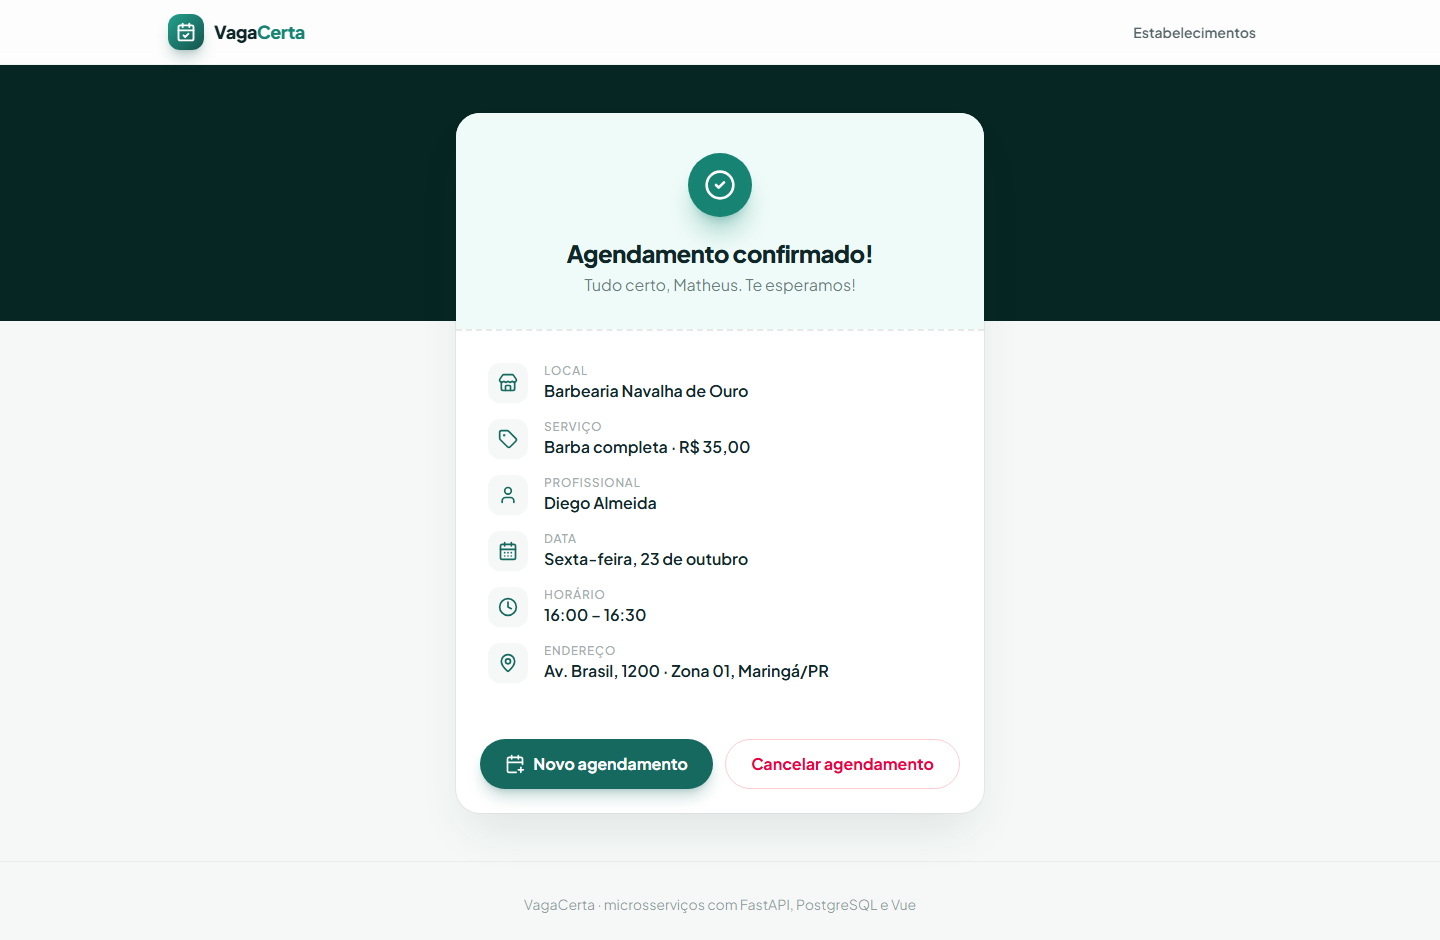
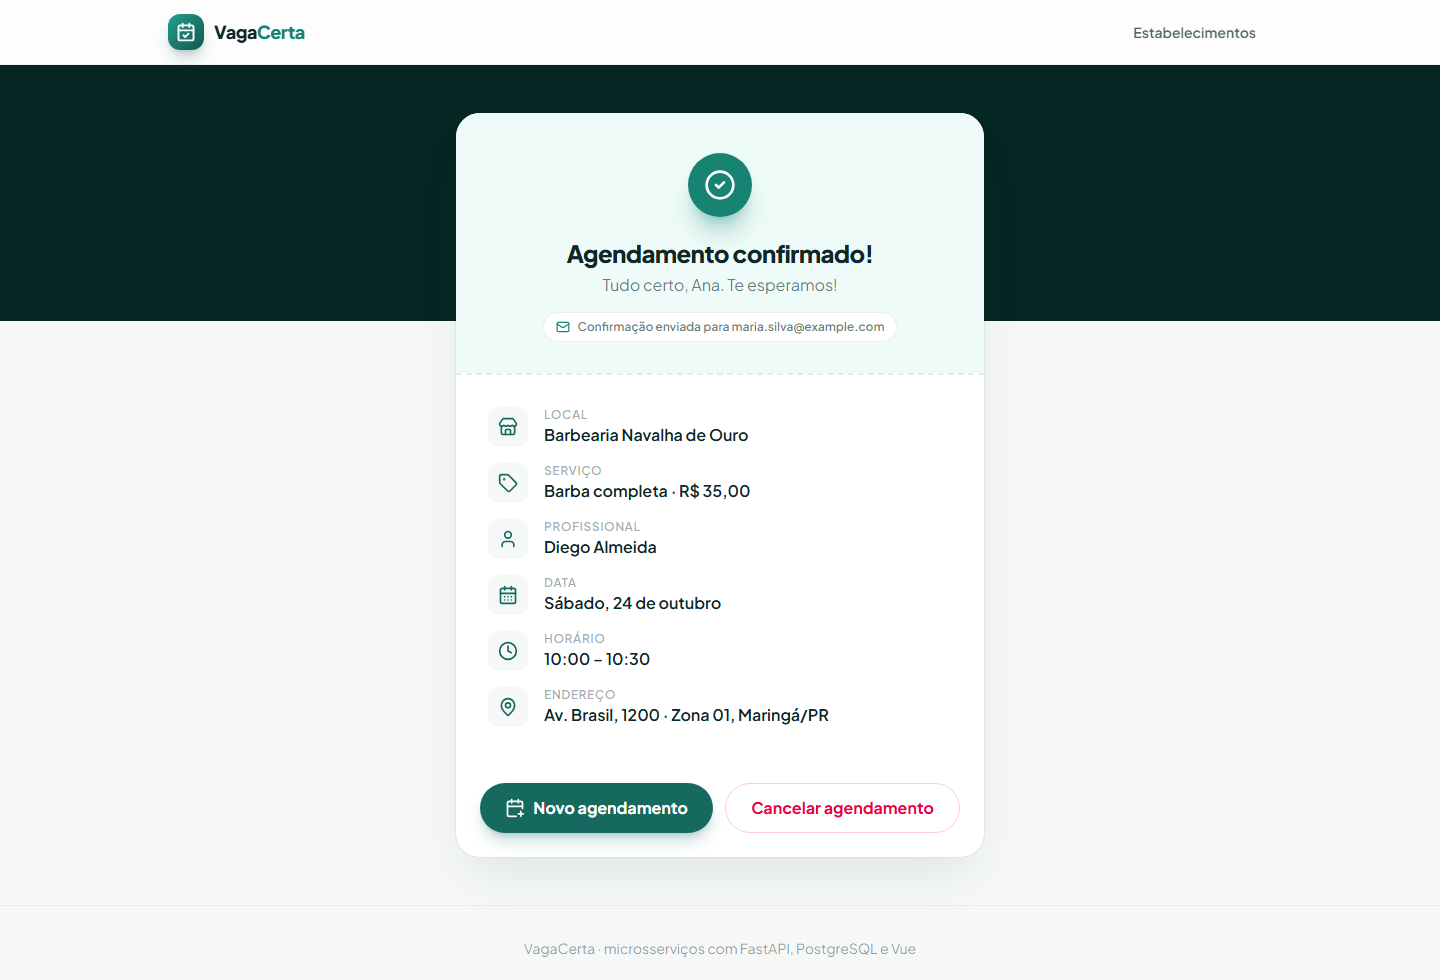
docs: document the event-driven architecture
Update the README with the new components, the booking-to-e-mail flow,
the event contract and the new test suites, and record the outbox and
messaging decisions as ADRs.

diff --git a/README.md b/README.md
@@ -9,6 +9,8 @@
   <a href="https://github.com/dev-matheusfranca/VagaCerta/actions/workflows/ci.yml"><img src="https://github.com/dev-matheusfranca/VagaCerta/actions/workflows/ci.yml/badge.svg" alt="CI" /></a>
   <img src="https://img.shields.io/badge/python-3.13-3776AB?logo=python&logoColor=white" alt="Python 3.13" />
   <img src="https://img.shields.io/badge/FastAPI-009688?logo=fastapi&logoColor=white" alt="FastAPI" />
+  <img src="https://img.shields.io/badge/Apache%20Kafka-4-231F20?logo=apachekafka&logoColor=white" alt="Apache Kafka 4" />
+  <img src="https://img.shields.io/badge/RabbitMQ-4-FF6600?logo=rabbitmq&logoColor=white" alt="RabbitMQ 4" />
   <img src="https://img.shields.io/badge/PostgreSQL-17-4169E1?logo=postgresql&logoColor=white" alt="PostgreSQL 17" />
   <img src="https://img.shields.io/badge/Vue-3-4FC08D?logo=vuedotjs&logoColor=white" alt="Vue 3" />
   <img src="https://img.shields.io/badge/license-MIT-green" alt="MIT license" />
@@ -28,6 +30,7 @@
 - [Project structure](#project-structure)
 - [Getting started](#getting-started)
 - [API reference](#api-reference)
+- [Events](#events)
 - [Testing](#testing)
 - [Roadmap](#roadmap)
 - [Contributing](#contributing)
@@ -41,14 +44,14 @@ apps. That leads to three everyday problems:
 
 1. **Back-and-forth messages** just to find a time that works for both sides.
 2. **Double bookings** when two people are promised the same slot.
-3. **Empty chairs** when someone cancels at the last minute and nobody else finds out.
+3. **No-shows and empty chairs** when people forget their appointment or cancel without anyone finding out.
 
 VagaCerta lets customers pick a service, a professional and a free slot in a few clicks, at any hour. The
 system **guarantees that a slot is never booked twice**, even when many people try to book it at the same
-moment.
+moment, and keeps customers informed by e-mail: confirmation, cancellation and a reminder before the
+appointment.
 
-The project grows in phases toward a full event-driven architecture with Kafka, RabbitMQ, a waitlist saga,
-observability, Kubernetes and AI. See the [roadmap](#roadmap).
+The project grows in phases toward a full event-driven architecture. See the [roadmap](#roadmap).
 
 ## Features
 
@@ -56,9 +59,10 @@ observability, Kubernetes and AI. See the [roadmap](#roadmap).
 - Real-time availability, calculated from each professional's weekly working hours and existing bookings.
 - Booking with no double booking under concurrency, enforced by the database.
 - Cancellation that immediately returns the slot to the agenda.
-- Booking confirmation page that works as a shareable receipt.
-- Responsive web app, from phones to wide screens.
-- Interactive API documentation (OpenAPI/Swagger) for every service.
+- E-mails for confirmation, cancellation and a reminder 24 hours before (or 2 hours, for last-minute
+  bookings), with branded HTML templates.
+- Reliable delivery: failed e-mails are retried with increasing delays and parked in a dead-letter queue.
+- Responsive web app and interactive API documentation (OpenAPI/Swagger) for every service.
 
 ## Screenshots
 
@@ -66,32 +70,79 @@ observability, Kubernetes and AI. See the [roadmap](#roadmap).
 |---|---|
 | <img src="docs/screenshots/business.png" alt="Business page with services, professionals and free slots" /> | <img src="docs/screenshots/booking.png" alt="Booking confirmation page" /> |
 
+<p align="center">
+  <img src="docs/screenshots/email.png" alt="Confirmation e-mail" width="480" /><br />
+  <em>Confirmation e-mail, as captured by Mailpit</em>
+</p>
+
 ## Architecture
 
 ```mermaid
 flowchart LR
-    user((Customer)) --> web
-    web["Web app<br/>Vue 3 + nginx"] -->|/api/catalog| catalog
-    web -->|/api/booking| booking
+    user((Customer)) --> web["Web app<br/>Vue 3 + nginx"]
+    web -->|/api/catalog| catalog["Catalog<br/>FastAPI"]
+    web -->|/api/booking| booking["Booking<br/>FastAPI"]
     booking -->|REST| catalog
-    catalog["Catalog service<br/>FastAPI"] --> catalogdb[(PostgreSQL<br/>catalog)]
-    booking["Booking service<br/>FastAPI"] --> bookingdb[(PostgreSQL<br/>booking)]
+    catalog --> catalogdb[(PostgreSQL<br/>catalog)]
+    booking --> bookingdb[(PostgreSQL<br/>bookings + outbox)]
+    bookingdb -.->|polls| relay["Outbox relay"]
+    relay -->|booking.events| kafka{{Kafka}}
+    kafka --> notification["Notification<br/>consumer + scheduler"]
+    notification --> notificationdb[(PostgreSQL<br/>projection)]
+    notification -->|e-mail jobs| rabbitmq{{RabbitMQ}}
+    rabbitmq --> worker["E-mail worker"]
+    worker -->|SMTP| mail["Mailpit"]
 ```
 
 | Component | Responsibility |
 |---|---|
 | **catalog** | Businesses, professionals, services and weekly working hours |
-| **booking** | Availability calculation, bookings and cancellations |
+| **booking** | Availability calculation, bookings and cancellations; writes domain events to an outbox |
+| **booking-relay** | Publishes outbox events to Kafka |
+| **notification** | Consumes booking events, schedules reminders and sends e-mails through RabbitMQ |
 | **web** | Customer-facing booking flow; nginx also routes `/api/*` to the services |
+
+### How a booking becomes an e-mail
+
+```mermaid
+sequenceDiagram
+    participant C as Customer
+    participant B as Booking
+    participant DB as Booking DB
+    participant R as Outbox relay
+    participant K as Kafka
+    participant N as Notification
+    participant Q as RabbitMQ
+    participant S as SMTP
+    C->>B: POST /bookings
+    B->>DB: INSERT booking + outbox event (one transaction)
+    B-->>C: 201 Created
+    R->>DB: SELECT pending events FOR UPDATE SKIP LOCKED
+    R->>K: booking.created (key = booking id)
+    K->>N: booking.created
+    N->>N: ignore if the event id was already processed
+    N->>Q: enqueue confirmation e-mail
+    Q->>N: e-mail job
+    N->>S: send
+    Note over N,Q: on failure: retry after 5 s, 30 s and 2 min, then dead-letter queue
+```
 
 ### Design decisions
 
-- **Database per service.** Each service owns its schema and migrations; they only talk through APIs.
-- **Anti-corruption layer.** Booking reads Catalog through
-  [`catalog_client.py`](services/booking/src/booking/catalog_client.py), which maps only the fields it needs.
-- **Framework-free domain.** Availability rules live in pure functions
-  ([`domain.py`](services/booking/src/booking/domain.py)); an architecture test forbids that module from
-  importing FastAPI, SQLAlchemy, httpx or Pydantic.
+- **Database per service.** Each service owns its schema and migrations; they talk only through APIs and
+  events.
+- **Transactional outbox.** A booking and its event are stored in the same transaction, so an event is
+  published if and only if the change was committed. No dual writes.
+- **Kafka for facts, RabbitMQ for jobs.** Domain events go to Kafka, where any number of consumers can read
+  and replay them. E-mails are jobs that need retries and dead-lettering, which RabbitMQ handles natively.
+- **Idempotent consumer.** Kafka delivers at least once; Notification records each event id and ignores
+  duplicates.
+- **Event-carried state transfer.** `booking.created` carries the names Notification needs, and
+  Notification keeps its own projection, so it never calls Booking or Catalog back.
+- **Retries without plugins.** One RabbitMQ queue per attempt, each with a fixed TTL that dead-letters back
+  to the main queue: increasing delays without head-of-line blocking.
+- **Framework-free domain.** Availability and reminder rules are pure functions; an architecture test
+  forbids those modules from importing frameworks or brokers.
 - **Concurrency handled by PostgreSQL.** An exclusion constraint rejects overlapping bookings, so the API
   returns `409 Conflict` to everyone but the first request.
 
@@ -99,17 +150,21 @@ Each decision is recorded as an ADR:
 
 - [ADR 0001 — Python + FastAPI](docs/adr/0001-python-fastapi.md)
 - [ADR 0002 — Double booking is prevented by the database](docs/adr/0002-double-booking-exclusion-constraint.md)
+- [ADR 0003 — Transactional outbox for booking events](docs/adr/0003-transactional-outbox.md)
+- [ADR 0004 — Kafka for events, RabbitMQ for e-mail jobs](docs/adr/0004-kafka-events-rabbitmq-jobs.md)
 
 ## Tech stack
 
 | Layer | Technologies |
 |---|---|
 | Services | Python 3.13, FastAPI, Pydantic v2, SQLAlchemy 2 (async), asyncpg, Alembic |
-| Database | PostgreSQL 17 (`btree_gist` exclusion constraint) |
+| Messaging | Apache Kafka 4 (KRaft) with aiokafka, RabbitMQ 4 with aio-pika |
+| E-mail | aiosmtplib, HTML templates, Mailpit for local delivery |
+| Database | PostgreSQL 17 (`btree_gist` exclusion constraint, JSONB) |
 | Web | Vue 3, TypeScript, Vite, Tailwind CSS 4, Vue Router, Lucide icons |
-| Testing | pytest, Testcontainers, Hypothesis, import-linter |
+| Testing | pytest, Testcontainers (PostgreSQL, Kafka, RabbitMQ), Hypothesis, import-linter |
 | Code quality | ruff (lint + format), mypy (strict), vue-tsc |
-| Infrastructure | Docker, Docker Compose, nginx, GitHub Actions |
+| Infrastructure | Docker, Docker Compose, nginx, Kafka UI, GitHub Actions |
 | Tooling | uv workspace (one lock file for all Python services) |
 
 ## Project structure
@@ -122,9 +177,13 @@ VagaCerta/
 │   │   ├── migrations/         # Alembic migrations
 │   │   ├── src/catalog/        # models, schemas, API routes and seed data
 │   │   └── tests/
-│   └── booking/
-│       ├── migrations/         # includes the anti-overlap constraint
-│       ├── src/booking/        # domain rules, API routes and Catalog client
+│   ├── booking/
+│   │   ├── migrations/         # bookings, anti-overlap constraint and outbox
+│   │   ├── src/booking/        # domain rules, API, events and outbox relay
+│   │   └── tests/
+│   └── notification/
+│       ├── migrations/         # processed events and bookings projection
+│       ├── src/notification/   # Kafka consumer, reminder scheduler, e-mails and RabbitMQ worker
 │       └── tests/
 ├── web/                        # Vue 3 front-end, served by nginx in Docker
 ├── docs/
@@ -132,6 +191,7 @@ VagaCerta/
 │   └── screenshots/
 ├── .github/workflows/ci.yml    # lint, types, tests and builds on every push
 ├── docker-compose.yml
+├── CHANGELOG.md
 └── pyproject.toml              # uv workspace and tooling configuration
 ```
 
@@ -156,24 +216,31 @@ docker compose up --build
 | URL | What |
 |---|---|
 | http://localhost:8080 | Web app |
+| http://localhost:8025 | Mailpit — every e-mail the system sends |
+| http://localhost:8090 | Kafka UI — topics and `booking.events` messages |
+| http://localhost:15672 | RabbitMQ management — e-mail, retry and dead-letter queues (`guest` / `guest`) |
 | http://localhost:8001/docs | Catalog API docs |
 | http://localhost:8002/docs | Booking API docs |
 
-Migrations run automatically, and the catalog is seeded with four sample businesses on first start.
+Migrations run automatically, and the catalog is seeded with four sample businesses on first start. Book a
+slot in the web app and the confirmation e-mail shows up in Mailpit a moment later.
 
 ### Run locally
 
-Start only the databases with Docker, then run each part in its own terminal:
+Start the infrastructure with Docker, then run each part in its own terminal:
 
 ```bash
-docker compose up -d catalog-db booking-db
+docker compose up -d catalog-db booking-db notification-db kafka rabbitmq mailpit
 uv sync
 
 cd services/catalog && uv run alembic upgrade head && uv run python -m catalog.seed && cd ../..
 cd services/booking && uv run alembic upgrade head && cd ../..
+cd services/notification && uv run alembic upgrade head && cd ../..
 
 uv run uvicorn catalog.main:app --port 8001 --reload
 uv run uvicorn booking.main:app --port 8002 --reload
+uv run python -m booking.outbox_relay
+uv run python -m notification
 
 npm --prefix web install
 npm --prefix web run dev
@@ -188,6 +255,12 @@ The web app runs at http://localhost:5173 and proxies `/api/*` to the services.
 | catalog | `DATABASE_URL` | `postgresql+asyncpg://vagacerta:vagacerta@localhost:5433/catalog` |
 | booking | `DATABASE_URL` | `postgresql+asyncpg://vagacerta:vagacerta@localhost:5434/booking` |
 | booking | `CATALOG_URL` | `http://localhost:8001` |
+| booking relay | `KAFKA_BOOTSTRAP_SERVERS` | `localhost:9094` |
+| notification | `DATABASE_URL` | `postgresql+asyncpg://vagacerta:vagacerta@localhost:5435/notification` |
+| notification | `KAFKA_BOOTSTRAP_SERVERS` | `localhost:9094` |
+| notification | `RABBITMQ_URL` | `amqp://guest:guest@localhost:5672/` |
+| notification | `SMTP_HOST` / `SMTP_PORT` | `localhost` / `1025` |
+| notification | `WEB_URL` | `http://localhost:8080` (used in e-mail links) |
 
 ## API reference
 
@@ -234,23 +307,57 @@ curl -X POST http://localhost:8002/bookings \
 | `409 Conflict` | The slot was just taken by someone else |
 | `422 Unprocessable Entity` | Invalid data, time outside working hours or in the past |
 
+## Events
+
+Booking publishes to the `booking.events` Kafka topic. Messages are keyed by booking id, so all events of a
+booking stay in order.
+
+| Type | Published when | `data` |
+|---|---|---|
+| `booking.created` | A booking is confirmed | Booking times, customer, business, professional and service details |
+| `booking.cancelled` | A confirmed booking is cancelled | `booking_id` |
+
+```json
+{
+  "event_id": "151a457a-5276-4a3f-896f-dd56508a0fb9",
+  "type": "booking.created",
+  "occurred_at": "2026-10-23T19:40:28.283996+00:00",
+  "data": {
+    "booking_id": "80be9d06-b39a-4212-963b-882a7a4ef6a0",
+    "starts_at": "2026-10-24T10:00:00-03:00",
+    "ends_at": "2026-10-24T10:30:00-03:00",
+    "customer_name": "Ana Teste",
+    "customer_email": "ana@example.com",
+    "business_name": "Barbearia Navalha de Ouro",
+    "business_address": "Av. Brasil, 1200 · Zona 01, Maringá/PR",
+    "timezone": "America/Sao_Paulo",
+    "professional_name": "Diego Almeida",
+    "service_name": "Barba completa",
+    "price_cents": 3500
+  }
+}
+```
+
 ## Testing
 
 ```bash
-uv run pytest            # all tests (integration tests start PostgreSQL with Docker)
+uv run pytest            # all tests (integration tests start containers with Docker)
 uv run lint-imports      # architecture rules
-uv run mypy services/catalog/src services/booking/src
+uv run mypy services/catalog/src services/booking/src services/notification/src
 uv run ruff check && uv run ruff format --check
 npm --prefix web run build   # type-checks the web app
 ```
 
 | Kind | What it proves |
 |---|---|
-| Unit | Availability rules: working periods, busy time and past slots |
+| Unit | Availability and reminder rules; e-mail content, local times and HTML escaping |
 | Property-based | Hypothesis generates random agendas; no slot ever overlaps busy time or leaves working hours |
 | Integration | API + real PostgreSQL through Testcontainers, with the real migrations |
 | Concurrency | 10 simultaneous requests for the same slot: exactly one `201`, nine `409` |
-| Architecture | The booking domain stays independent of frameworks |
+| Outbox | Events are written only when the booking is committed; the relay publishes each one once, in order, to a real Kafka |
+| Messaging | Against a real RabbitMQ: e-mails are delivered, retried with backoff and dead-lettered after the last attempt |
+| Idempotency | A redelivered event sends no second e-mail; a reminder is sent exactly once and never for cancelled bookings |
+| Architecture | Domain modules stay independent of frameworks and brokers |
 
 Every push to `main` and `develop`, and every pull request, runs the whole suite on GitHub Actions, plus
 the web build and the Docker image builds.
@@ -259,14 +366,16 @@ the web build and the Docker image builds.
 
 - [x] **Phase 1** — Catalog and Booking services, real-time availability, double-booking prevention,
       web app, CI
-- [ ] **Phase 2** — Domain events on Kafka with the Outbox pattern; Notification service on RabbitMQ with
-      retries, dead-letter queue and delayed reminders
+- [x] **Phase 2** — Domain events on Kafka with the transactional outbox; Notification service with
+      e-mails on RabbitMQ (retries, dead-letter queue) and reminders
 - [ ] **Phase 3** — Waitlist service (saga): a cancelled slot is offered to the next person in line;
       Keycloak authentication, API gateway and k6 load tests
 - [ ] **Phase 4** — OpenTelemetry tracing, Prometheus, Grafana and Loki; Pact contract tests; Analytics
       service with CQRS
 - [ ] **Phase 5** — Kubernetes with kind and Helm; natural-language booking with a local LLM (Ollama) and
       an MCP server
+
+See the [changelog](CHANGELOG.md) for what changed in each release.
 
 ## Contributing
 

diff --git a/docs/adr/0004-kafka-events-rabbitmq-jobs.md b/docs/adr/0004-kafka-events-rabbitmq-jobs.md
@@ -1,0 +1,37 @@
+# ADR 0004 — Kafka for events, RabbitMQ for e-mail jobs
+
+**Status:** accepted
+
+## Context
+
+The system needs two kinds of messaging:
+
+1. **Domain events** (`booking.created`, `booking.cancelled`): facts that several services will consume over
+   time (Notification now; Waitlist and Analytics in later phases), possibly replaying history.
+2. **E-mail jobs**: units of work that must be retried when the SMTP server fails, with increasing delays,
+   and set aside for inspection when they keep failing.
+
+## Decision
+
+- Domain events go to **Kafka**. Each consumer group keeps its own offset, and the log can be replayed to
+  build new read models.
+- E-mail jobs go to **RabbitMQ**, using one retry queue per attempt:
+
+  | Queue | Role |
+  |---|---|
+  | `notification.email` | Jobs ready to be sent |
+  | `notification.email.retry.N` | Waits for a fixed TTL (5 s, 30 s, 2 min), then dead-letters back to `notification.email` |
+  | `notification.email.dead` | Jobs that failed every attempt, kept for inspection |
+
+  The worker acknowledges the original message and republishes it to the next queue with an
+  `x-failed-attempts` header.
+
+## Consequences
+
+- Each broker does what it is best at: a replayable log for facts, per-message acknowledgement and
+  dead-lettering for jobs.
+- Fixed TTL per queue gives increasing delays without the delayed-message plugin and without
+  head-of-line blocking (a single queue with different per-message TTLs only expires messages at its head).
+- Two brokers to operate instead of one. Acceptable here: the project also aims to show both tools in
+  their natural roles.
+- E-mail delivery is at least once: a crash after sending but before acknowledging resends the e-mail.

diff --git a/docs/adr/0003-transactional-outbox.md b/docs/adr/0003-transactional-outbox.md
@@ -1,0 +1,30 @@
+# ADR 0003 — Transactional outbox for booking events
+
+**Status:** accepted
+
+## Context
+
+Other services need to react when a booking is created or cancelled. Writing the booking to PostgreSQL and
+then publishing to Kafka is a dual write: if the process dies between the two, either the booking exists
+without an event, or an event announces a booking that was rolled back (for example, by the anti-overlap
+constraint).
+
+## Decision
+
+Booking writes the event to an `outbox` table **in the same transaction** as the booking change. A separate
+process, the outbox relay, polls pending rows in id order, publishes them to the `booking.events` topic and
+marks them as published.
+
+- Rows are selected with `FOR UPDATE SKIP LOCKED`, so several relay replicas can run without publishing the
+  same event at the same time.
+- Messages are keyed by booking id, so all events of one booking land on the same partition, in order.
+- A partial index on pending rows keeps polling cheap as the table grows.
+
+## Consequences
+
+- An event is published if and only if the booking change was committed.
+- Delivery is **at least once**: if the relay crashes after publishing but before marking a row, the event
+  is published again. Consumers must be idempotent (see the `processed_events` table in Notification).
+- Events reach Kafka with a small delay (the polling interval, 0.5 s when idle).
+- Change data capture (Debezium) would remove polling, at the cost of running Kafka Connect; polling is
+  enough for this volume.
